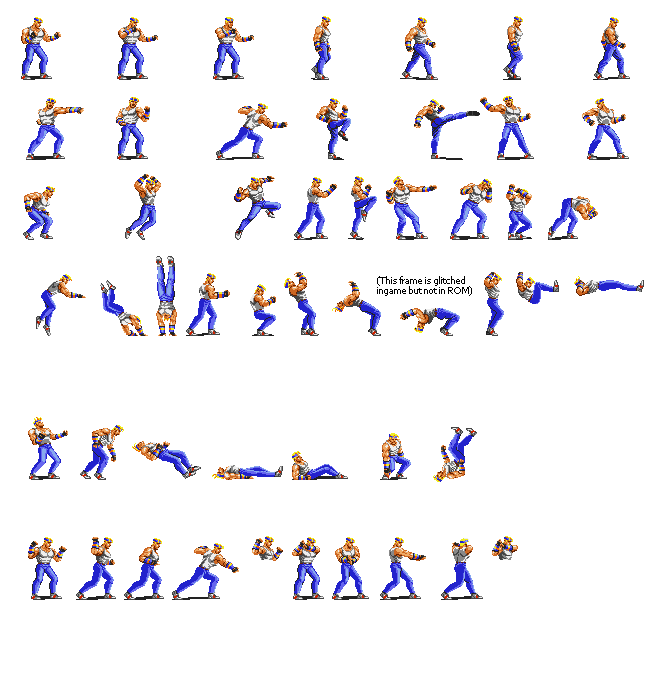
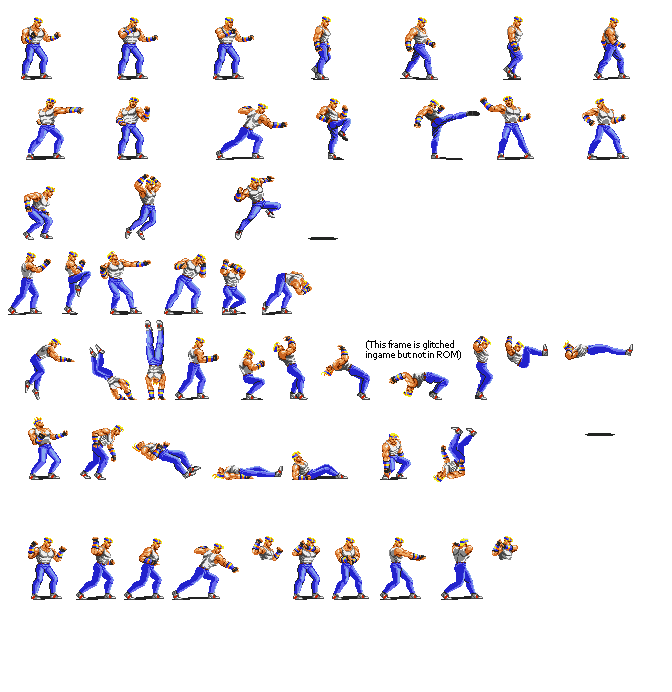
Player: separated jump animation into two, and preparation to update the jump logic

diff --git a/Player.cpp b/Player.cpp
@@ -35,14 +35,14 @@ bool Player::Update(unsigned int msec_elapsed, const bool upd_logic)
 			
 			if (grounded == false)	
 			{
-				jump_remaining_cycles -= 1;
-				if (jump_remaining_cycles == 3)
+				air_remaining_cycles -= 1;
+				if (air_remaining_cycles == 3)
 				{
 					App->audio->PlayFx(fx_landing_jump);
-					UpdateCurrentAnimation(jump);	
+					UpdateCurrentAnimation(&jump);	
 					blocking_animation_remaining_cycles = 2;
 				}
-				grounded = (jump_remaining_cycles <= 0) ? true : false;
+				grounded = (air_remaining_cycles <= 0) ? true : false;	// vamos a darle el beneficio de la duda
 				
 			}
 		}
@@ -73,14 +73,14 @@ bool Player::Update(unsigned int msec_elapsed, const bool upd_logic)
 			if (grounded == false)
 			{
 				// air move! 
+				move_speed.y = 0;	// new calculations needed
 				if (upd_logic)
 				{
 					UpdatePosition(move_speed);
-					position.y -= 1;
 				}
 				if (App->input->GetKey(SDL_SCANCODE_X) == KEY_DOWN)
 				{
-					UpdateCurrentAnimation(jump_attack);
+					UpdateCurrentAnimation(&jump_attack);
 				}
 			}
 			else
@@ -90,34 +90,31 @@ bool Player::Update(unsigned int msec_elapsed, const bool upd_logic)
 					if (App->input->GetKey(SDL_SCANCODE_X) == KEY_REPEAT) // back attack
 					{
 						blocking_animation_remaining_cycles = attacks_duration;
-						UpdateCurrentAnimation(attack_back);
+						UpdateCurrentAnimation(&attack_back);
 						App->audio->PlayFx(fx_attack_miss);
 					}
 					else
 					{
-						grounded = false;
-						ground_y = position.y;
-
-						jump_remaining_cycles = jump_duration;
+						UpdateCurrentAnimation(&jump_prep);
 						blocking_animation_remaining_cycles = 5;
 
-						UpdateCurrentAnimation(jump);
+						//UpdateCurrentAnimation(&jump);
 						App->audio->PlayFx(fx_jump);
 					}
 				}
 				else if (App->input->GetKey(SDL_SCANCODE_X) == KEY_DOWN)
 				{
+					App->audio->PlayFx(fx_attack_miss);
 					if (App->input->GetKey(SDL_SCANCODE_C) == KEY_REPEAT) // back attack
 					{
 						blocking_animation_remaining_cycles = attacks_duration;
-						UpdateCurrentAnimation(attack_back);
+						UpdateCurrentAnimation(&attack_back);
 					}
 					else  //combo attacks 
 					{
 						blocking_animation_remaining_cycles = attacks_duration;
-						UpdateCurrentAnimation(attack1);
+						UpdateCurrentAnimation(&attack1);
 					}
-					App->audio->PlayFx(fx_attack_miss);
 				}
 				else
 				{
@@ -125,12 +122,12 @@ bool Player::Update(unsigned int msec_elapsed, const bool upd_logic)
 					{
 						if (move_speed.IsZero())
 						{
-							UpdateCurrentAnimation(idle);
+							UpdateCurrentAnimation(&idle);
 						}
 						else
 						{
 							UpdatePosition(move_speed);
-							UpdateCurrentAnimation(walk);
+							UpdateCurrentAnimation(&walk);
 						}
 					}
 				}
@@ -283,6 +280,17 @@ bool Player::LoadFromConfigFile(const char* file_path)
 	{
 		j_array_inner = json_array_get_array(j_array, i);
 		walk.frames.push_back({ (int)json_array_get_number(j_array_inner, 0), (int)json_array_get_number(j_array_inner, 1), (int)json_array_get_number(j_array_inner, 2), (int)json_array_get_number(j_array_inner, 3) });
+		json_array_clear(j_array_inner);
+	}
+	json_array_clear(j_array);
+
+	//jump preparation
+	jump_prep.speed = (float)json_object_dotget_number(root_object, "player.jump_prep.speed");
+	j_array = json_object_dotget_array(root_object, "player.jump_prep.frames");
+	for (int i = 0; i < (int)json_array_get_count(j_array); ++i)
+	{
+		j_array_inner = json_array_get_array(j_array, i);
+		jump_prep.frames.push_back({ (int)json_array_get_number(j_array_inner, 0), (int)json_array_get_number(j_array_inner, 1), (int)json_array_get_number(j_array_inner, 2), (int)json_array_get_number(j_array_inner, 3) });
 		json_array_clear(j_array_inner);
 	}
 	json_array_clear(j_array);

diff --git a/Entity.h b/Entity.h
@@ -33,7 +33,7 @@ protected:
 
 
 	virtual bool AllowAnimationInterruption();
-	virtual void UpdateCurrentAnimation(Animation& new_anim);
+	virtual void UpdateCurrentAnimation(Animation *new_anim);
 
 	virtual bool LoadFromConfigFile(const char* file_path);
 
@@ -54,7 +54,7 @@ protected:
 	bool grounded = true;
 
 // jumping control
-	int jump_remaining_cycles = 0;
+	int air_remaining_cycles = 0;
 	int jump_duration = 0;
 
 //animation blocking	

diff --git a/Entity.cpp b/Entity.cpp
@@ -38,11 +38,11 @@ bool Entity::AllowAnimationInterruption()
 	return blocking_animation_remaining_cycles < 0;
 }
 
-void Entity::UpdateCurrentAnimation(Animation& new_anim)
+void Entity::UpdateCurrentAnimation(Animation *new_anim)
 {
-	if (current_animation != &new_anim)
+	if (current_animation != new_anim)
 	{
-		current_animation = &new_anim;
+		current_animation = new_anim;
 		current_animation->Reset();
 	}
 

diff --git a/Timer.h b/Timer.h
@@ -50,9 +50,9 @@ public:
 	}
 
 private:
-	unsigned int ticks_start = 0;
-	unsigned int ticks_pause = 0;
-	unsigned int ticks_last_call = 0;
+	Uint32 ticks_start = 0;
+	Uint32 ticks_pause = 0;
+	Uint32 ticks_last_call = 0;
 
 };
 
